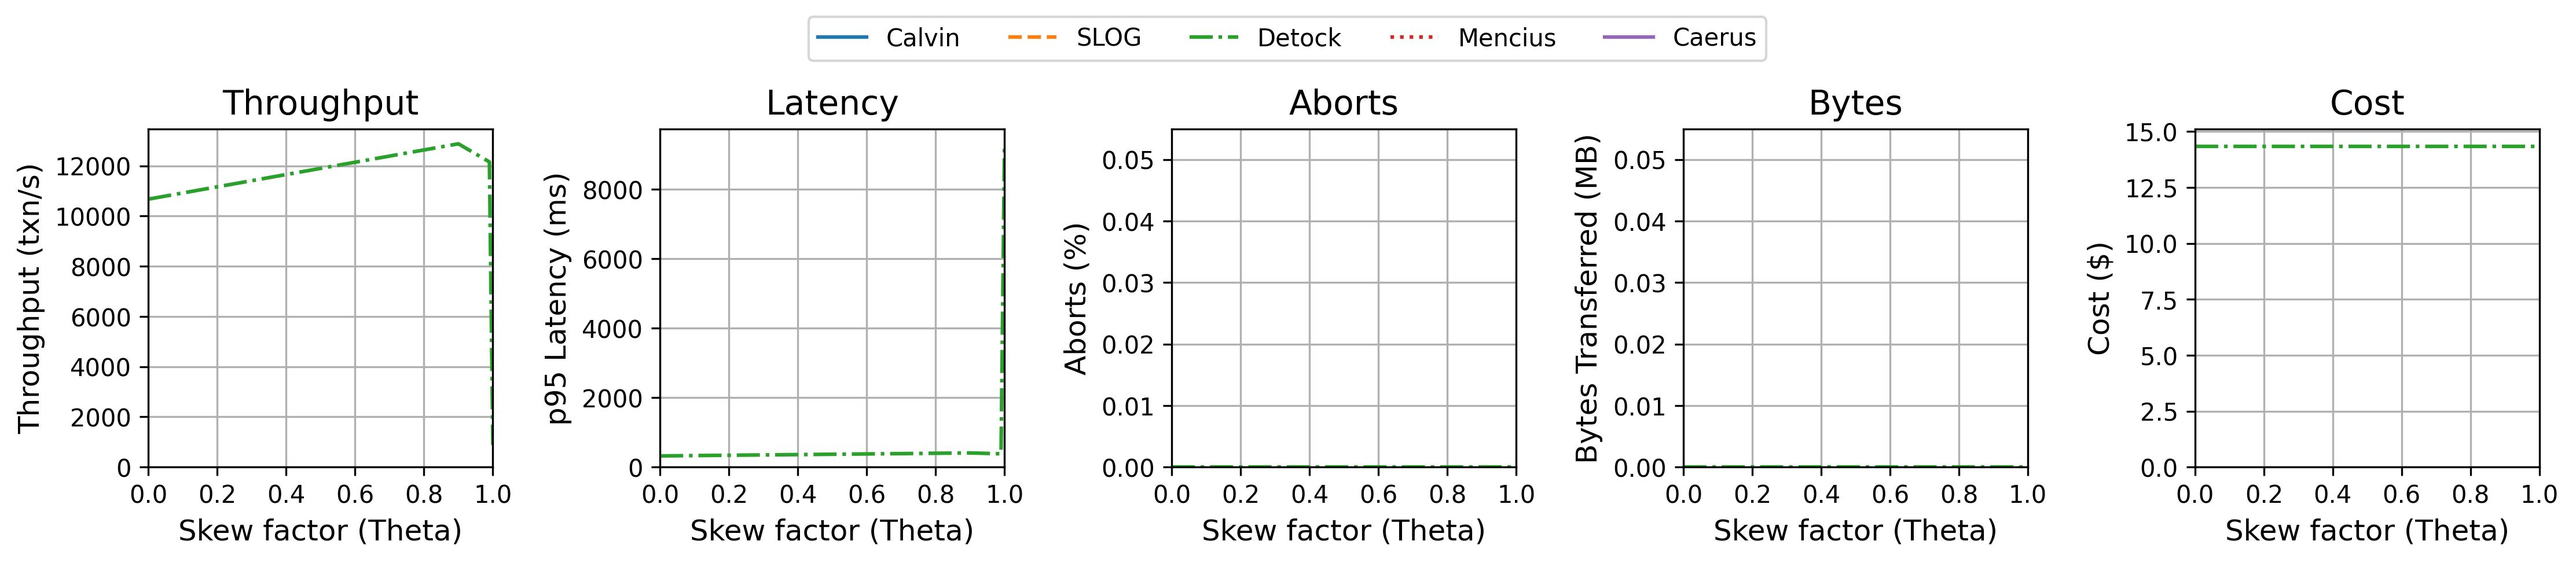
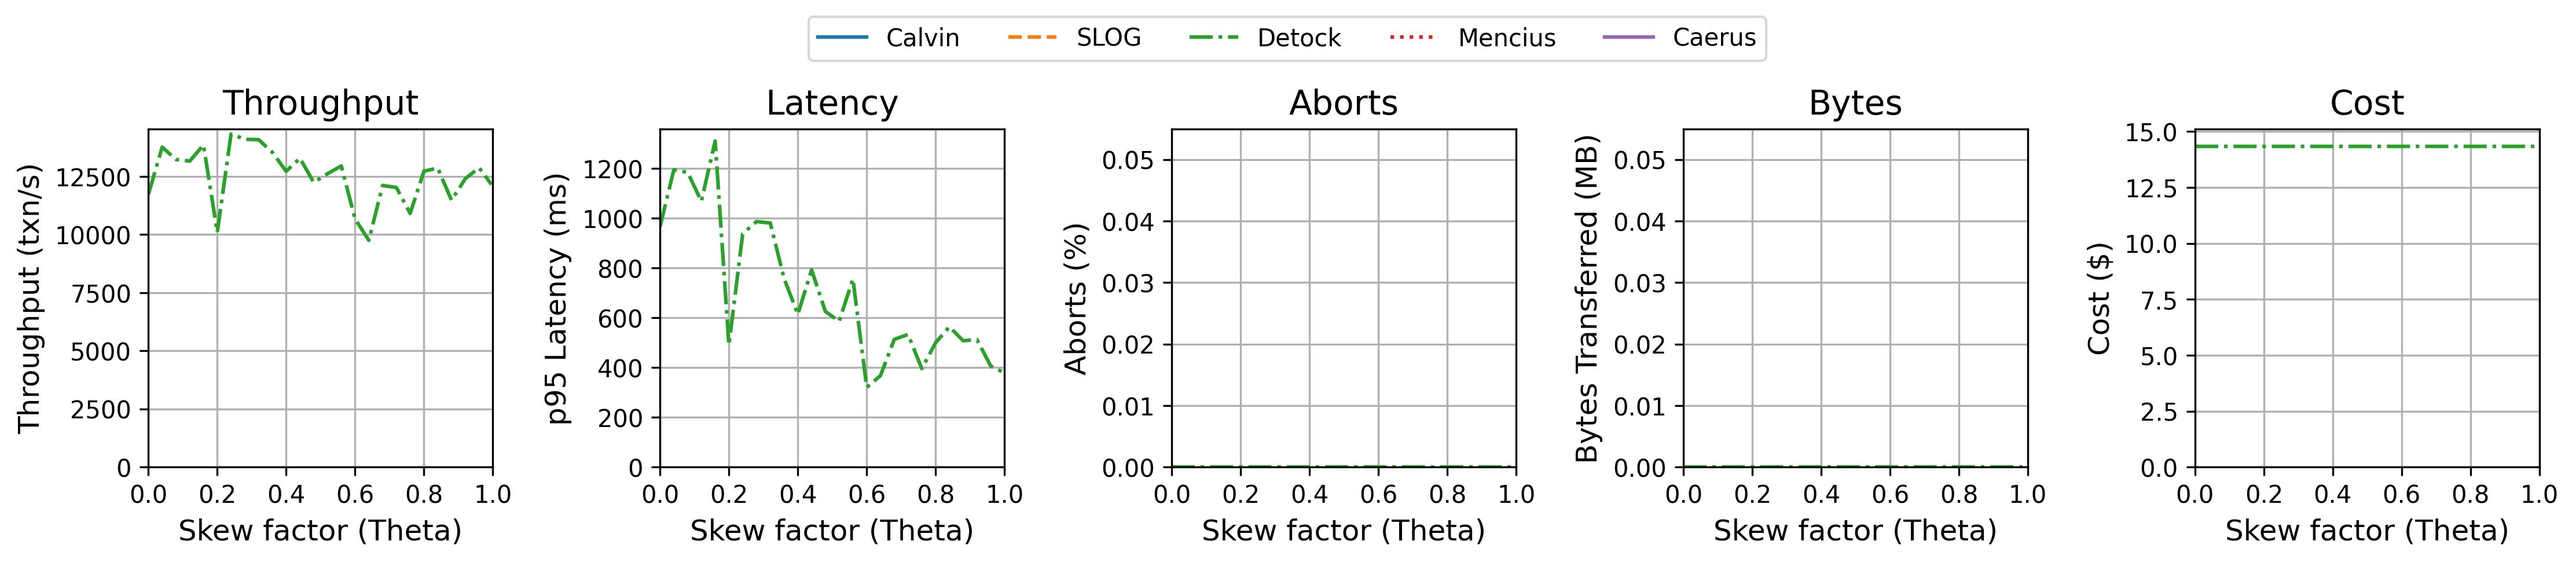
Add network emulation fucntionality

diff --git a/tools/simulate_network.py b/tools/simulate_network.py
@@ -1,0 +1,82 @@
+import subprocess as sp
+import time
+
+def apply_netem(delay="100ms", jitter="10ms", loss="0%", ips=None, user=None):
+    """
+    Applies network emulation (netem) settings on the given interface, locally or over SSH.
+    :param delay: Base delay (e.g., "100ms").
+    :param jitter: Jitter value (e.g., "20ms").
+    :param loss: Packet loss percentage (e.g., "0%").
+    :param ips: Dict of IP addresses and their interfaces to apply netem remotely.
+    :param user: SSH username to use for remote access.
+    """
+    if ips:
+        print("Applying netem on remote machines.")
+        for ip in list(ips.keys()):
+            netem_cmd = f"sudo tc qdisc add dev {ips[ip]} root netem delay {delay} {jitter} loss {loss}"
+            ssh_target = f"{user}@{ip}" if user else ip
+            print(f"Applying netem to {ssh_target} with command: {netem_cmd}")
+            ssh_cmd = f"ssh {ssh_target} '{netem_cmd}'"
+            result = sp.run(ssh_cmd, shell=True)
+            if result.returncode != 0:
+                print(f"⚠ Failed to apply netem on {ip}")
+            else:
+                print(f"✅ Netem applied on {ip}")
+    else:
+        interface = sp.run('iftop 2>&1', shell=True, capture_output=True, text=True).stdout.split('\n')[0].split('interface: ')[1]
+        print(f"Applying netem locally on {interface}...")
+        netem_cmd = [
+                "sudo", "tc", "qdisc", "add", "dev", interface, "root",
+                "netem", "delay", delay, jitter, "loss", loss
+            ]
+        sp.run(netem_cmd, check=True)
+        print(f"✅ Netem applied locally with delay={delay}, jitter={jitter}, loss={loss}")
+
+def remove_netem(ips=None, user=None):
+    """
+    Removes netem settings from the given network interface, locally or via SSH.
+    :param ips: Dict of IP addresses and their interfaces to remove netem remotely.
+    :param user: SSH username to use for remote access.
+    """
+    if ips:
+        print("Removing netem on remote machines.")
+        for ip in ips:
+            netem_cmd = f"sudo tc qdisc del dev {ips[ip]} root"
+            ssh_target = f"{user}@{ip}" if user else ip
+            print(f"Removing netem from {ssh_target}...")
+            ssh_cmd = f"ssh {ssh_target} '{netem_cmd}'"
+            result = sp.run(ssh_cmd, shell=True)
+            if result.returncode != 0:
+                print(f"⚠ Failed to remove netem on {ip}")
+            else:
+                print(f"✅ Netem removed from {ip}")
+    else:
+        interface = sp.run('iftop 2>&1', shell=True, capture_output=True, text=True).stdout.split('\n')[0].split('interface: ')[1]
+        print(f"Removing current netem configuration on local machine on interface {interface}...")
+        netem_cmd = f"sudo tc qdisc del dev {interface} root"
+        result = sp.run(netem_cmd.split(), check=True, capture_output=True, text=True)
+        if result.returncode == 0:
+            print(f"✅ Netem removed locally from {interface}")
+        else:
+            print(f"⚠ Failed to remove netem on {interface}")
+
+def netem_status(ips=None, user=None):
+    """
+    Checks current netem settings from the given network interface, locally or via SSH.
+    :param ips: Dict of IP addresses and their interfaces to check netem settings remotely.
+    :param user: SSH username to use for remote access.
+    """
+    if ips:
+        print("Checking current netem status on remote machines...")
+        for ip in list(ips.keys()):
+            netem_cmd = f"tc qdisc show dev {ips[ip]}"
+            ssh_target = f"{user}@{ip}" if user else ip
+            ssh_cmd = f"ssh {ssh_target} '{netem_cmd}'"
+            result = sp.run(ssh_cmd, shell=True, capture_output=True, text=True)
+            print(f"Netem status at {ip}: {result.stdout}")
+    else:
+        interface = sp.run('iftop 2>&1', shell=True, capture_output=True, text=True).stdout.split('\n')[0].split('interface: ')[1]
+        print(f"Checking current netem status on local machine {interface}...")
+        netem_cmd = f"tc qdisc show dev {interface}"
+        result = sp.run(netem_cmd.split(), check=True, capture_output=True, text=True)
+        print(f"Netem status at on local node: {result.stdout}")

diff --git a/tools/run_config_on_remote.py b/tools/run_config_on_remote.py
@@ -1,12 +1,19 @@
 import os
+import sys
 import subprocess as sp
 import shutil
+
+import simulate_network
 
 # --- Config ---
 MACHINE = 'st5'
 WORKLOAD = 'ycsbt'
 DRY_RUN = False # We don't actually run it, just see the commands it will run
-FINAL_FOLDER = 'baseline'
+FINAL_FOLDER = 'network'
+BASIC_IFTOP_CMD = 'iftop 2>&1'
+
+#INTERFACE = 'eno33np0' # TODO: Check!!! May differ for AWS
+interfaces = {}
 
 #venv_activate = "source build_detock/bin/activate" # If running this script on the target machine, we will anyway have this env activated
 detock_dir = os.path.expanduser("~/Detock")
@@ -27,7 +34,7 @@ if FINAL_FOLDER == 'baseline':
 elif FINAL_FOLDER == 'skew':
     benchmark_params = "\"mh=50,mp=50,hot={}\""
     clients = 3000
-    x_vals = [1, 10, 20, 30, 40, 50, 60, 70, 80, 90, 100]
+    x_vals = [1, 10, 20, 30, 40, 50, 60, 70, 80, 90, 100, 110, 120, 130, 140, 150, 160, 170, 180, 190, 200, 210, 220, 230, 240, 250]
 elif FINAL_FOLDER == 'scalability':
     benchmark_params = "\"mh=50,mp=50\""
     clients = None
@@ -56,6 +63,33 @@ def run_subprocess(cmd, dry_run=False):
     else:
         return sp.run(cmd, shell=True, capture_output=True, text=True)
 
+def get_ips_from_conf(conf_path):
+    with open(conf_path, "r") as f:
+        conf_data = f.readlines()
+    ips_used = set()
+    for line in conf_data:
+        if '    addresses: ' in line:
+            ips_used.add(line.split('    addresses: "')[1].split('"')[0])
+    ips_used = list(ips_used)
+    return ips_used
+
+def get_network_interfaces(ips_used):
+    interface = run_subprocess(BASIC_IFTOP_CMD).stdout.split('\n')[0].split('interface: ')[1]
+    print(f"This machine uses the network interface: {interface}")
+    for ip in ips_used:
+        try:
+            ssh_target = f"{user}@{ip}" if user else ip
+            ssh_cmd = f"ssh {ssh_target} '{BASIC_IFTOP_CMD}'"
+            result = run_subprocess(ssh_cmd, DRY_RUN)
+            print(f"Result is: {result}")
+            interfaces[ip] = result.stdout.split('\n')[0].split('interface: ')[1]
+        except:
+            print(f"Unable to find interface for IP: {ip}")
+
+ips_used = get_ips_from_conf(conf_path=conf)
+print(f"The IPs used in this experiment are: {ips_used}")
+get_network_interfaces(ips_used=ips_used)
+
 os.makedirs(f'data/{FINAL_FOLDER}', exist_ok=True)
 # For now, we hard code this for the baseline exp (varying MH from 0 to 100) and just for Detock
 tags = []
@@ -72,7 +106,23 @@ for system in systems_to_test:
         cur_clients = clients if clients is not None else x_val
         cur_benchmark_cmd = single_benchmark_cmd.format(image=image, conf=conf, user=user, clients=cur_clients, duration=duration, benchmark_params=cur_benchmark_params, short_benchmark_log=short_benchmark_log)
         print(f"\n>>> Running: {cur_benchmark_cmd}")
+        if FINAL_FOLDER == 'network':
+            # Emulate the network conditions first
+            delay = f"{x_val}ms"
+            jitter = f"{int(x_val / 10)}ms"
+            loss = "0%"
+        elif FINAL_FOLDER == 'packet_loss':
+            delay = "0ms"
+            jitter = "0ms"
+            loss = f"{x_val}%"
+        # Note: the netem command may require allowing passwordless sudo for tc commands
+        # I.e., add something like 'omraz ALL=(ALL) NOPASSWD: /usr/sbin/tc' to 'sudo visudo'
+        if FINAL_FOLDER == 'network' or FINAL_FOLDER == 'packet_loss':
+            simulate_network.apply_netem(delay=delay, jitter=jitter, loss=loss, ips=interfaces, user=user)
         result = run_subprocess(cur_benchmark_cmd, DRY_RUN) #sp.run(cur_benchmark_cmd, shell=True, capture_output=True, text=True)
+        if FINAL_FOLDER == 'network' or FINAL_FOLDER == 'packet_loss':
+            # Remove emulated network conditions first
+            simulate_network.remove_netem(ips=interfaces, user=user)
         benchmark_cmd_log = ['']
         if not DRY_RUN:
             print(result.stdout)

diff --git a/plots/extract_exp_results.py b/plots/extract_exp_results.py
@@ -24,6 +24,8 @@ OUT_CSV_PATH = os.path.join("plots/data/final", out_csv)
 SYSTEMS_LIST = ['Calvin', 'SLOG', 'Detock', 'Caerus', 'Mencius']
 METRICS_LIST = ['throughput', 'p50', 'p90', 'p95', 'p99', 'aborts', 'bytes', 'cost']
 
+MAX_YCSBT_HOT_RECORDS = 250.0
+
 # Constants for the hourly cost of deploying all the servers on m4.2xlarge VMs (each region has 4 VMs). Price as of 28.3.25
 #              euw1  euw2  usw1  usw2  use1  use2  apne1 apne2
 vm_cost = 4 * (0.444+0.464+0.468+0.400+0.400+0.400+0.516+0.492)
@@ -173,7 +175,7 @@ for x_val in x_vals:
     x_val = x_val.split('/')[-1]
     new_row = {col: np.nan for col in df.columns}
     if exp_raw_data_dir == 'skew':
-        new_row['x_var'] = (100.0 - float(x_val)) / 100.0
+        new_row['x_var'] = (MAX_YCSBT_HOT_RECORDS - float(x_val)) / MAX_YCSBT_HOT_RECORDS
     else:
         new_row['x_var'] = float(x_val)
     for system in system_dirs:
